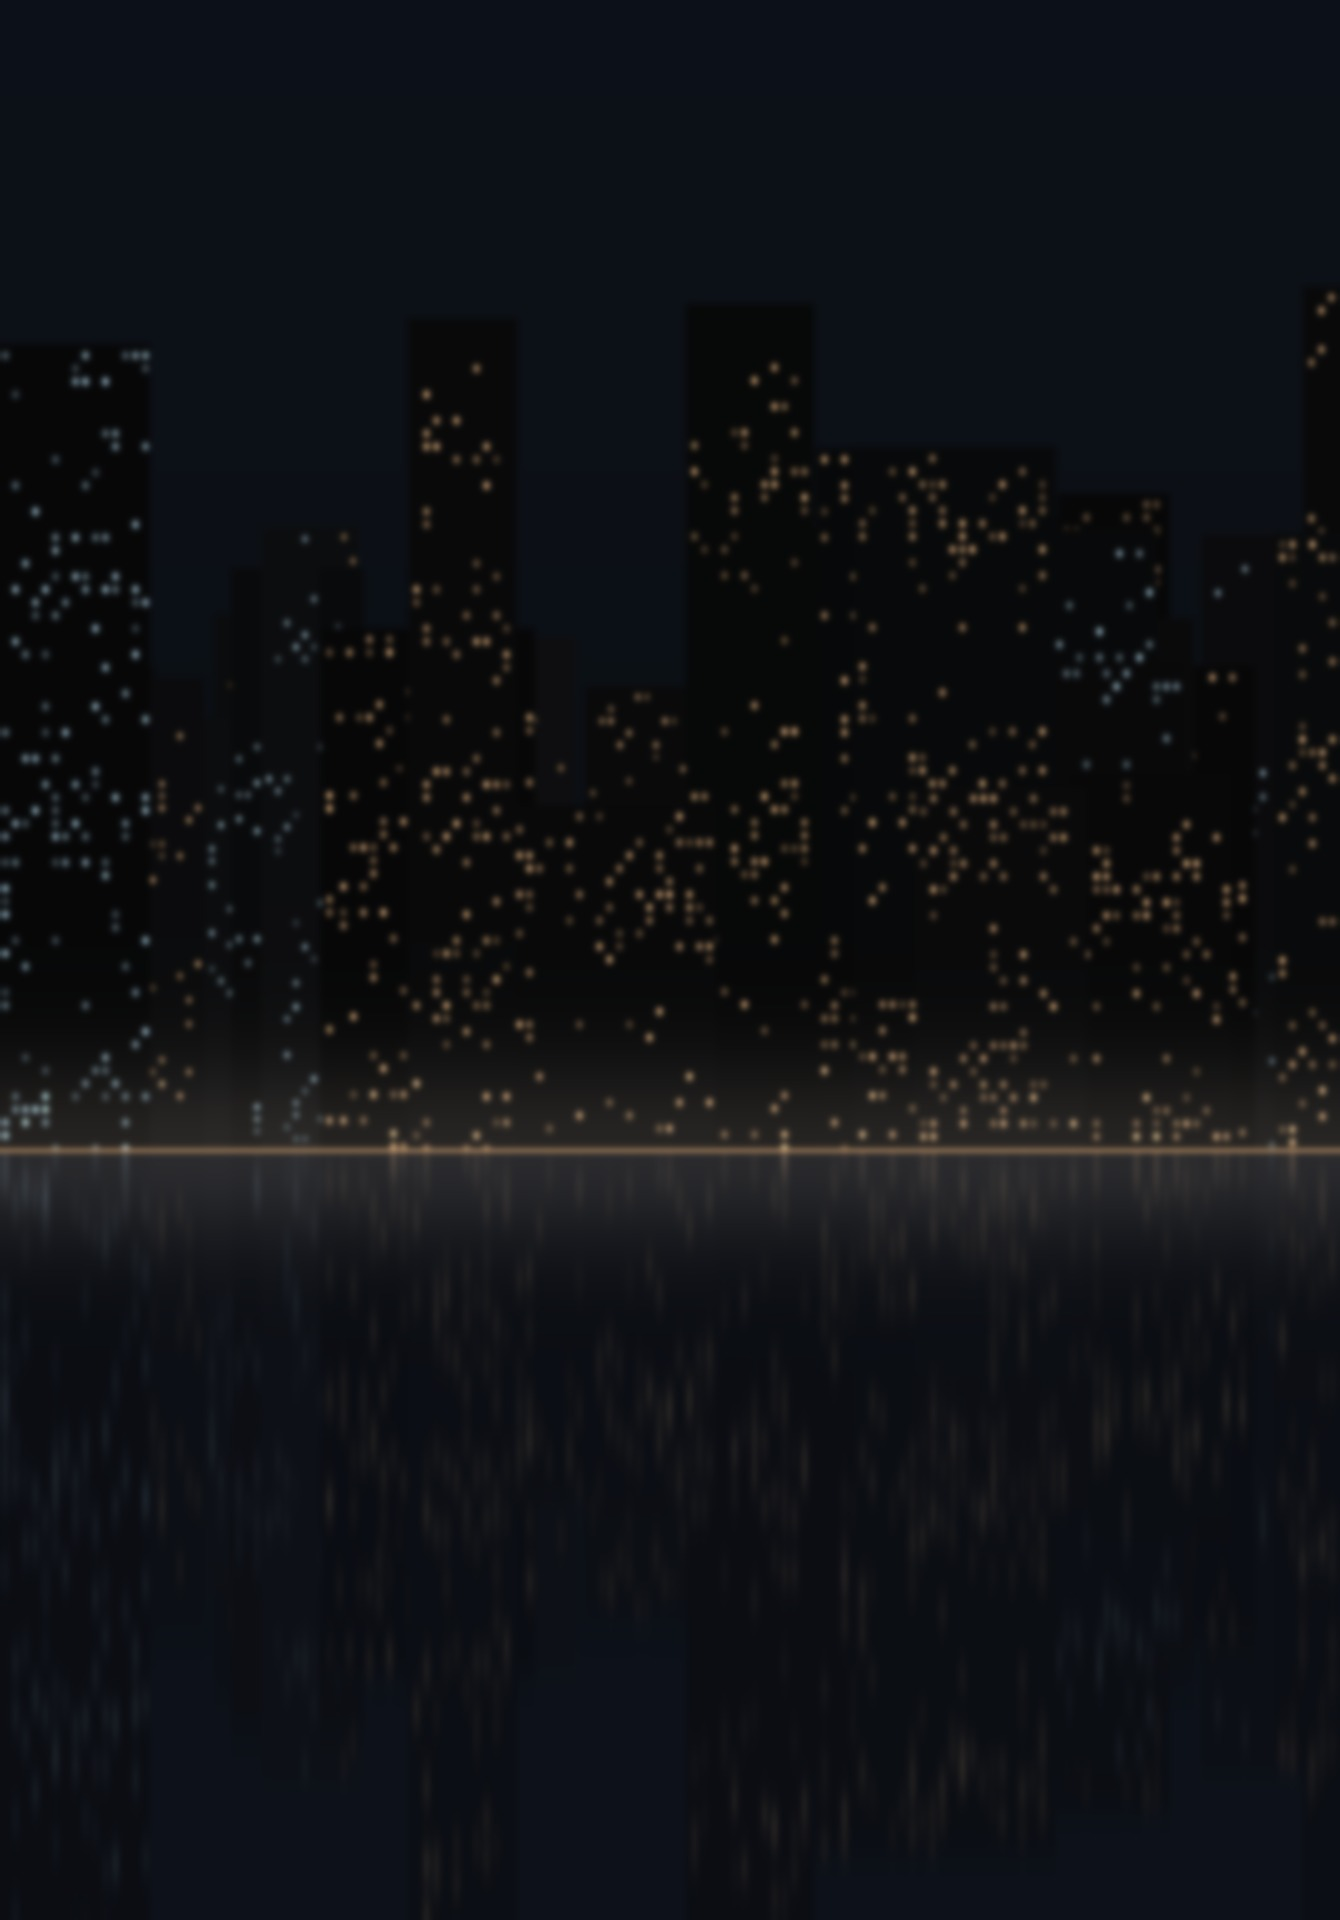
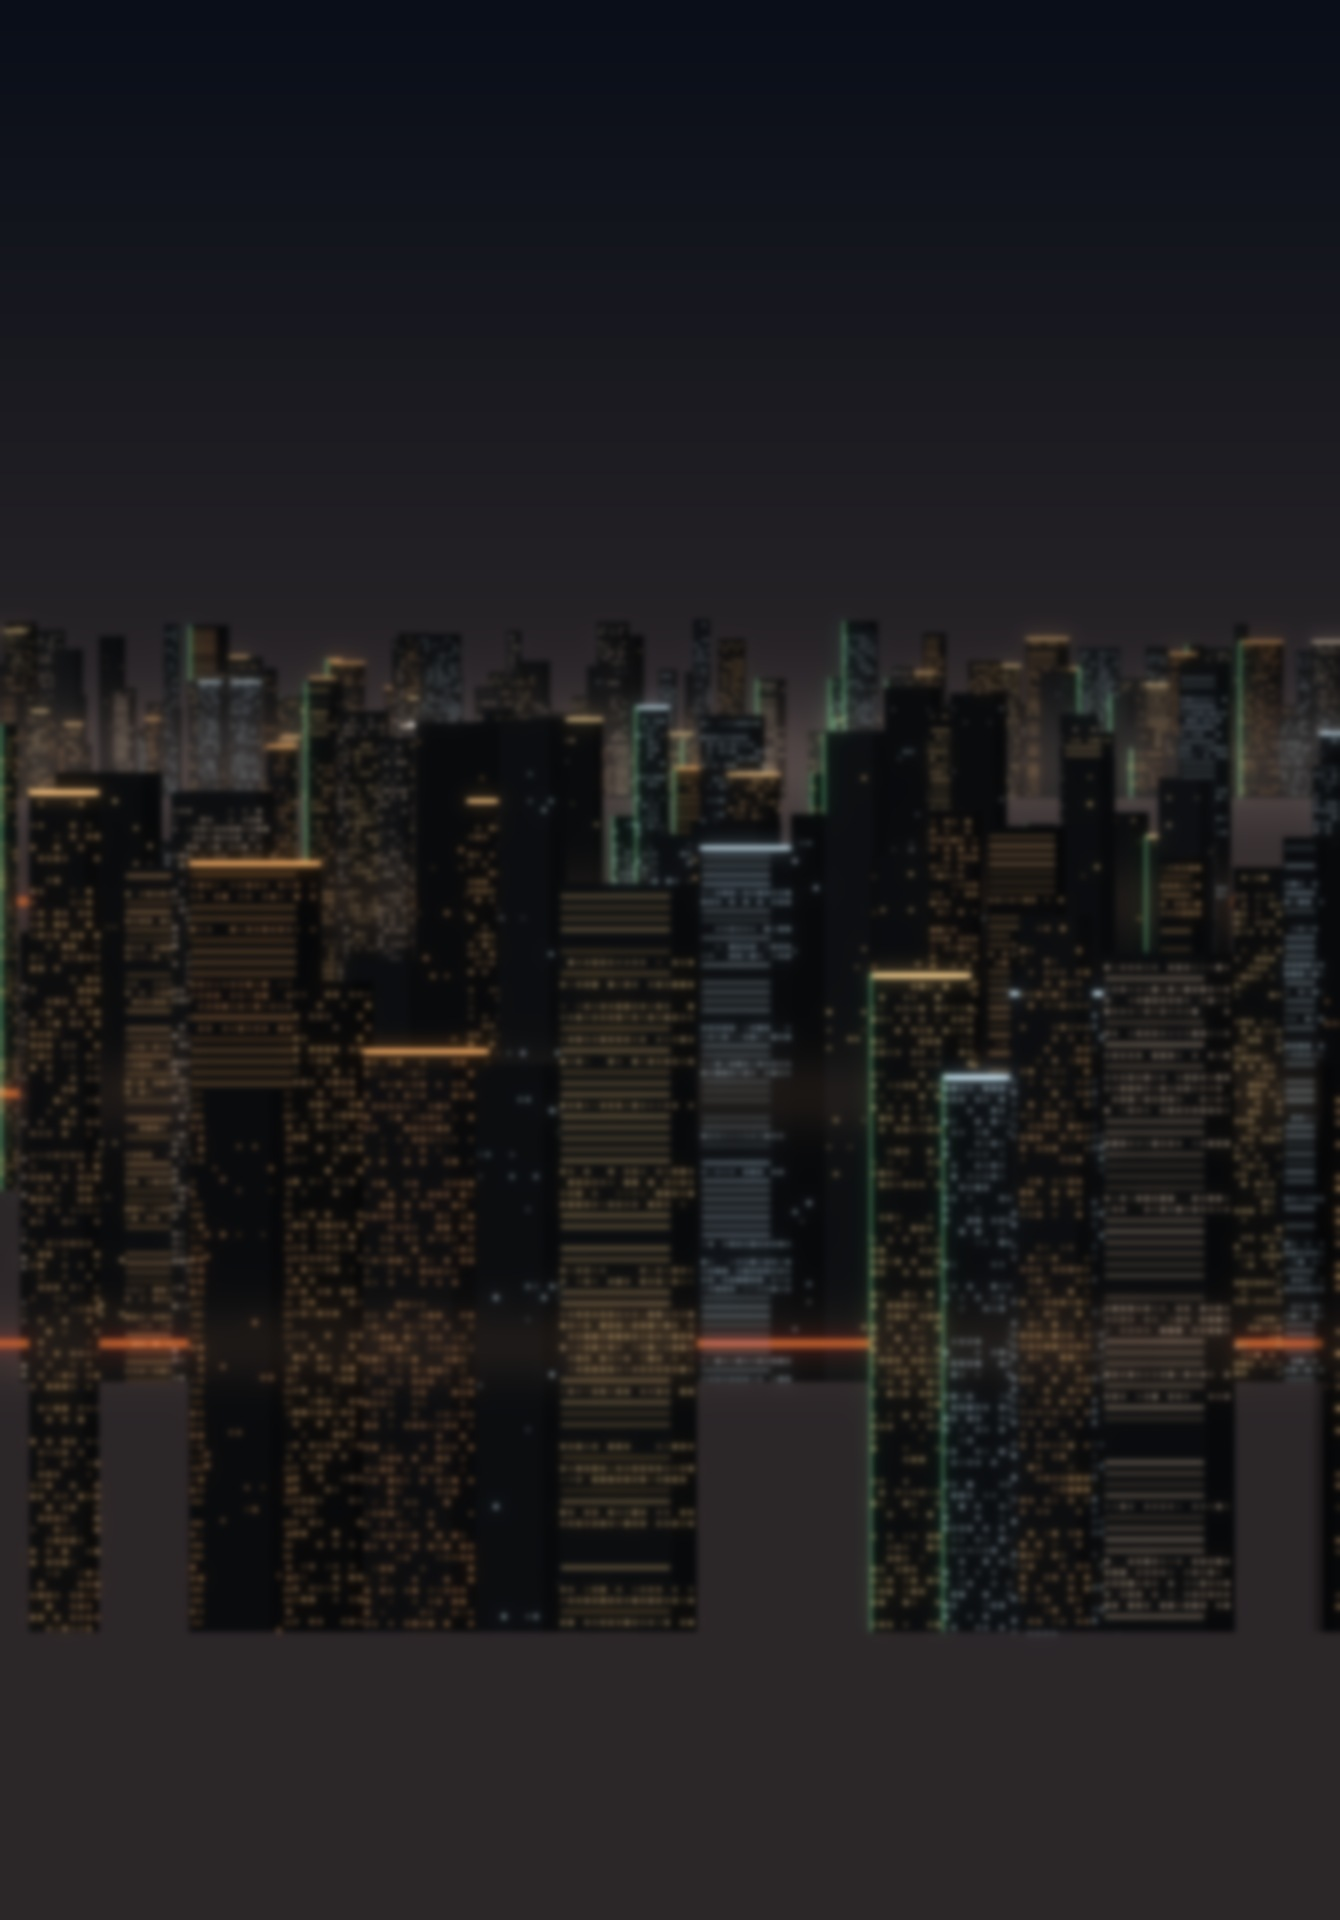
S1 final hook: rebuild Alice window view as a layered high-floor night city (no empty water), traffic/beacons on generated streets
Claude-Session: https://claude.ai/code/session_01GXcKc2bonZqTw7BuWx5hWf

diff --git a/nvidia-blender/remotion/src/s1/S1Final.jsx b/nvidia-blender/remotion/src/s1/S1Final.jsx
@@ -16,6 +16,7 @@ import { V } from '../alicev4/brand';
 import { CamRig, projector } from '../three/kit';
 import WORLD from '../alice/world.json';
 import VO from './s1f_vo.json';
+import CITY from './s1f_city.json';
 
 const ease = (x) => { x = clamp(x); return x * x * (3 - 2 * x); };
 const eio = (x) => Easing.inOut(Easing.cubic)(clamp(x));
@@ -120,19 +121,17 @@ const Shot1 = ({ f }) => {
 };
 
 // ---------------------------------------------------------------- Shot 2 pieces
-const CityLife = ({ f, horizon }) => {
-  const pts = useMemo(() => [...Array(90)].map((_, k) => ({ x: random(`cx${k}`) * 1340, y: 520 + random(`cy${k}`) * (horizon - 540), s: 2 + random(`cs${k}`) * 3, p: random(`cp${k}`) * 6, w: random(`cw${k}`) < 0.7 })), [horizon]);
-  const cars = useMemo(() => [...Array(16)].map((_, k) => ({ o: random(`co${k}`) * 1340, v: 4 + random(`cv${k}`) * 6, d: k % 2 ? 1 : -1, y: horizon - 6 + (k % 3) * 3 })), [horizon]);
+const CityLife = ({ f }) => {
+  // animation sits exactly on the generated city (scripts/s1_city.py -> s1f_city.json)
+  const tw = useMemo(() => CITY.twinkle.filter((_, k) => k % 2 === 0).map((b, k) => ({ x: b[0] + random(`tx${k}`) * b[2], y: b[1] + random(`ty${k}`) * Math.min(b[3], 500), p: random(`tp${k}`) * 6, warm: random(`tw${k}`) < 0.7 })), []);
+  const cars = useMemo(() => CITY.streets.filter((st) => st[1] < 3).flatMap(([y, li]) => [...Array(7)].map((_, k) => ({ o: random(`co${y}${k}`) * 1340, v: (1.5 + li * 1.6) * (0.7 + random(`cv${y}${k}`) * 0.6), d: k % 2 ? 1 : -1, y: y - 2 + (k % 2) * 3, s: 0.6 + li * 0.25 }))), []);
   return (
     <>
-      {pts.map((s, k) => <div key={k} style={{ position: 'absolute', left: s.x, top: s.y, width: s.s, height: s.s, borderRadius: 9, background: s.w ? '#ffd9a0' : '#cfe6ff',
-        opacity: 0.15 + 0.6 * Math.max(0, Math.sin(f / 6 + s.p)), mixBlendMode: 'screen', boxShadow: `0 0 8px ${s.w ? '#ffc070' : '#9cc8ff'}` }} />)}
-      {cars.map((c, k) => { const x = ((c.o + c.d * f * c.v) % 1340 + 1340) % 1340; return <div key={`c${k}`} style={{ position: 'absolute', left: x, top: c.y, width: 16, height: 3, borderRadius: 3,
-        background: c.d > 0 ? '#fff3dc' : '#ff5a4a', boxShadow: `0 0 8px ${c.d > 0 ? '#ffe2a8' : '#ff3b30'}`, opacity: 0.85 }} />; })}
-      {[180, 460, 900, 1180].map((x, k) => <div key={`a${k}`} style={{ position: 'absolute', left: x, top: 560 + k * 37, width: 5, height: 5, borderRadius: 5, background: '#ff3b30', boxShadow: '0 0 10px #ff3b30', opacity: (Math.floor((f + k * 9) / 12) % 2) ? 0.9 : 0.15 }} />)}
-      {/* water shimmer */}
-      {[...Array(26)].map((_, k) => <div key={`w${k}`} style={{ position: 'absolute', left: random(`wx${k}`) * 1300, top: horizon + 20 + random(`wy${k}`) * 520, width: 40 + random(`ww${k}`) * 90, height: 2,
-        background: 'rgba(255,215,160,.55)', opacity: 0.1 + 0.4 * Math.max(0, Math.sin(f / 5 + k)), filter: 'blur(1px)', transform: `translateX(${Math.sin(f / 9 + k) * 10}px)` }} />)}
+      {tw.map((s, k) => { const o = 0.5 + 0.5 * Math.sin(f / 7 + s.p); return o > 0.75 ? <div key={k} style={{ position: 'absolute', left: s.x, top: s.y, width: 4, height: 3, background: s.warm ? '#ffd6a0' : '#d4e8ff',
+        opacity: (o - 0.75) * 3, mixBlendMode: 'screen', boxShadow: `0 0 6px ${s.warm ? '#ffc070' : '#9cc8ff'}`, filter: 'blur(1px)' }} /> : null; })}
+      {cars.map((c, k) => { const x = ((c.o + c.d * f * c.v) % 1340 + 1340) % 1340; return <div key={`c${k}`} style={{ position: 'absolute', left: x, top: c.y, width: 14 * c.s, height: 3 * c.s, borderRadius: 3,
+        background: c.d > 0 ? '#fff1d6' : '#ff5a45', boxShadow: `0 0 ${8 * c.s}px ${c.d > 0 ? '#ffe0a0' : '#ff3b30'}`, opacity: 0.9, filter: 'blur(0.8px)' }} />; })}
+      {CITY.beacons.map(([x, y], k) => <div key={`b${k}`} style={{ position: 'absolute', left: x - 3, top: y - 3, width: 6, height: 6, borderRadius: 6, background: '#ff3b30', boxShadow: '0 0 12px #ff3b30', opacity: (Math.floor((f + k * 11) / 14) % 2) ? 0.95 : 0.1 }} />)}
     </>
   );
 };
@@ -148,8 +147,10 @@ const Shot2 = ({ f, horizon }) => {
     <AbsoluteFill style={{ overflow: 'hidden', background: '#07090c' }}>
       <div style={{ ...layer(0.25), left: -130, width: 1340 }}>
         <Img src={staticFile('s1f/a/skyline.jpg')} style={{ position: 'absolute', left: 0, top: 0, width: 1340, height: H }} />
-        <CityLife f={f} horizon={horizon} />
+        <CityLife f={f} />
       </div>
+      {/* near towers on their own plane: more parallax than the far city */}
+      <div style={{ ...layer(0.42), left: -130, width: 1340 }}><Img src={staticFile('s1f/a/skyline_near.png')} style={{ position: 'absolute', left: 0, top: 0, width: 1340, height: H }} /></div>
       {/* window reflection: moves against the track (different optical depth) + slow glass sweep */}
       <div style={{ ...layer(-0.35), opacity: 0.16, mixBlendMode: 'screen' }}><Img src={staticFile('s1f/a/reflection.png')} style={{ width: W, height: H }} /></div>
       <div style={{ position: 'absolute', left: lerp(-500, 1300, clamp(f / 60)), top: -300, width: 240, height: 2600, transform: 'rotate(16deg)', background: 'linear-gradient(90deg, transparent, rgba(255,255,255,.08), transparent)', mixBlendMode: 'screen' }} />
@@ -174,7 +175,7 @@ const Shot2 = ({ f, horizon }) => {
         <div style={{ position: 'absolute', inset: 0, WebkitMaskImage: `url(${ch})`, maskImage: `url(${ch})`, WebkitMaskSize: '100% 100%', maskSize: '100% 100%', mixBlendMode: 'soft-light',
           background: `linear-gradient(105deg, transparent ${lerp(-10, 40, k)}%, rgba(255,220,170,.55) ${lerp(5, 55, k)}%, transparent ${lerp(25, 75, k)}%)` }} />
       </div>
-      <div style={{ position: 'absolute', inset: 0, background: 'linear-gradient(180deg, transparent 55%, rgba(4,6,9,.72) 82%)' }} />
+      <div style={{ position: 'absolute', inset: 0, background: 'linear-gradient(180deg, transparent 58%, rgba(4,6,9,.55) 84%)' }} />
     </AbsoluteFill>
   );
 };

diff --git a/nvidia-blender/scripts/s1_city.py b/nvidia-blender/scripts/s1_city.py
@@ -1,0 +1,99 @@
+"""Neutral night-city view from a high floor (S1 final, Shot 2 window). Procedural, landmark-free.
+
+Painter's algorithm, far -> near. Each tower has real floor bands and window columns (not random dots),
+per-building tint (warm offices / cool LED / dark residential), occasional lit crowns and edge strips,
+atmospheric haze toward the horizon, lit streets between blocks, and near rooftops that fill the lower window
+(we look DOWN onto the city, so there is no empty water). Depth-of-field blur grows toward the camera.
+
+Returns far plate (BGR uint8), near layer (BGRA uint8) and metadata (streets / beacons / twinkle boxes) so
+Remotion can animate traffic, aircraft beacons and window flicker exactly on the generated geometry.
+"""
+import cv2
+import numpy as np
+
+TINTS = [np.array(c, np.float32) for c in ((0.55, 0.80, 1.00), (0.62, 0.86, 1.00), (1.00, 0.95, 0.85), (0.80, 0.90, 1.00), (0.45, 0.70, 0.95))]  # BGR
+
+
+def tower(img, rng, x0, top, base, bw, depth, meta):
+    """Draw one tower; depth 0 (far) .. 1 (near). Returns nothing, draws into img (float BGR, 0..1)."""
+    h, w = img.shape[:2]
+    x1 = min(w, x0 + bw); x0c = max(0, x0)
+    if x1 <= x0c or base <= 0 or top >= h:
+        return
+    haze = 1 - depth
+    body = np.array([0.050, 0.042, 0.036]) * (0.6 + 0.8 * rng.random()) * (0.55 + 0.45 * depth) + np.array([0.06, 0.05, 0.045]) * haze * 0.6
+    t0, b0 = max(0, top), min(h, base)
+    img[t0:b0, x0c:x1] = body
+    # subtle side shading (one face slightly darker) for volume
+    side = int(bw * rng.uniform(0.18, 0.32))
+    img[t0:b0, max(0, x1 - side):x1] *= 0.72
+    floor_h = int(np.interp(depth, [0, 1], [5, 16])); win_w = int(np.interp(depth, [0, 1], [2, 7])); gap = int(np.interp(depth, [0, 1], [2, 6]))
+    kind = rng.random()
+    tint = TINTS[rng.integers(len(TINTS))]
+    lit_p = 0.10 if kind < 0.25 else (0.55 if kind < 0.75 else 0.85)       # residential / mixed / office
+    rows = np.arange(top + floor_h, base - 2, floor_h)
+    band = rng.random(len(rows)) < (0.35 if kind < 0.25 else 0.9)          # whole floors on/off (real buildings do this)
+    for r, on in zip(rows, band):
+        if not on or r < 0 or r >= h:
+            continue
+        if kind >= 0.75 and rng.random() < 0.6:                            # office: continuous lit ribbon window
+            yy = slice(r, min(h, r + max(1, floor_h // 2)))
+            img[yy, x0c + 2:max(x0c + 2, x1 - side - 2)] = tint * rng.uniform(0.25, 0.55) * (0.9 - 0.45 * depth)
+            continue
+        for xx in range(x0 + 2, x1 - 2, win_w + gap):
+            if 0 <= xx < w and rng.random() < lit_p:
+                img[r:min(h, r + max(1, floor_h // 2)), xx:min(w, xx + win_w)] = tint * rng.uniform(0.25, 0.95) * (0.9 - 0.3 * depth)
+    if rng.random() < 0.25:                                                # lit crown band (generic)
+        img[max(0, top):max(0, top) + max(2, floor_h // 2), x0c:x1] = tint * 0.9
+    if rng.random() < 0.15:                                                # vertical LED edge strip
+        img[t0:b0, max(0, x0):max(0, x0) + 2] = np.array([0.55, 0.75, 0.45]) * 0.8
+    if depth > 0.55 and rng.random() < 0.5:                                # roof beacon (animated in Remotion)
+        meta["beacons"].append([int(x0 + bw / 2), int(top - 3)])
+    if lit_p > 0.5 and len(meta["twinkle"]) < 160:
+        meta["twinkle"].append([int(x0c), int(t0), int(x1 - x0c), int(b0 - t0)])
+
+
+def make_city(w, h, seed=11):
+    rng = np.random.default_rng(seed)
+    meta = {"streets": [], "beacons": [], "twinkle": []}
+    y = np.linspace(0, 1, h)[:, None]
+    hz = 0.40                                                              # horizon (fraction of height)
+    sky = np.zeros((h, w, 3), np.float32)
+    top_c, low_c = np.array([0.095, 0.055, 0.035]), np.array([0.16, 0.15, 0.17])   # deep blue -> city-glow
+    sky[:] = (top_c * (1 - np.clip(y / hz, 0, 1)) + low_c * np.clip(y / hz, 0, 1))[:, :, None].transpose(0, 2, 1)
+    far = sky.copy()
+    H0 = int(h * hz)
+    # far skyline band (dense, small, hazy)
+    for _ in range(140):
+        bw = int(rng.uniform(14, 46)); x0 = int(rng.uniform(-20, w)); bh = int(rng.uniform(20, 150))
+        tower(far, rng, x0, H0 - bh, H0 + 30, bw, 0.05, meta)
+    haze = np.exp(-((np.arange(h) - H0) / 70.0) ** 2)[:, None, None] * np.array([0.11, 0.12, 0.14])
+    far += haze
+    # mid layers: bases step DOWN the frame (we look down), towers get bigger
+    for li, (n, base_y, hmin, hmax, wmin, wmax, dep) in enumerate((
+            (40, 0.47, 60, 240, 26, 70, 0.25), (24, 0.57, 120, 400, 40, 110, 0.4), (14, 0.70, 200, 560, 70, 160, 0.55))):
+        by = int(h * base_y)
+        far[by - 5:by + 4] = np.maximum(far[by - 5:by + 4], np.array([0.25, 0.55, 0.95]) * 0.55)   # sodium street glow
+        meta["streets"].append([by, li])
+        xs = np.sort(rng.uniform(-60, w, n))
+        for x0 in xs:
+            bw = int(rng.uniform(wmin, wmax)); bh = int(rng.uniform(hmin, hmax))
+            tower(far, rng, int(x0), by - bh, by + int(h * 0.15), bw, dep, meta)
+        far[:] = far + np.exp(-((np.arange(h) - by) / 40.0) ** 2)[:, None, None] * np.array([0.035, 0.05, 0.07])
+    bright = np.clip(far - 0.35, 0, 1)
+    far = far + cv2.GaussianBlur(bright, (0, 0), 9) * 1.4                  # window bloom / light spill
+    far = cv2.GaussianBlur(far, (0, 0), 3.0)                               # DOF: city far behind her
+    # near layer: big towers rising from below the frame edge (separate plane for parallax), more blur
+    near = np.zeros((h, w, 3), np.float32); na = np.zeros((h, w), np.float32)
+    by = int(h * 0.86)
+    meta["streets"].append([by, 3])
+    for x0 in np.sort(rng.uniform(-100, w, 8)):
+        bw = int(rng.uniform(150, 300)); top = int(h * rng.uniform(0.62, 0.80))
+        tmp = np.zeros_like(near); tower(tmp, rng, int(x0), top, h, bw, 0.9, meta); tmp *= 0.62
+        m = (tmp.sum(2) > 0).astype(np.float32)
+        near = near * (1 - m[..., None]) + tmp; na = np.maximum(na, m)
+    near = near * 0.75 + cv2.GaussianBlur(np.clip(near - 0.3, 0, 1), (0, 0), 10)
+    near = cv2.GaussianBlur(near, (0, 0), 6.0); na = cv2.GaussianBlur(na, (0, 0), 6.0)
+    meta["horizon"] = H0
+    to8 = lambda a: (np.clip(a, 0, 1) * 255).astype(np.uint8)
+    return to8(far), np.dstack([to8(near), to8(na)]), meta

diff --git a/nvidia-blender/scripts/s1_final_layers.py b/nvidia-blender/scripts/s1_final_layers.py
@@ -15,6 +15,8 @@ import subprocess
 import shutil
 from pathlib import Path
 
+import sys as _sys
+_sys.path.insert(0, str(__import__("pathlib").Path(__file__).resolve().parent))
 import cv2
 import numpy as np
 from rembg import new_session, remove
@@ -140,10 +142,13 @@ def shot2():
     glow = cv2.GaussianBlur(np.clip((lum - 120) / 120, 0, 1) * lamp, (0, 0), 40)
     cv2.imwrite(str(d / "lamp_glow.png"), (glow / max(glow.max(), 1e-6) * 255).astype(np.uint8))
     # 6 neutral skyline (replaces the recognisable Hong Kong view), wider for parallax
-    sky, horizon = city(w + 260, h)
-    sky = cv2.GaussianBlur(sky, (0, 0), 3.2)           # shallow depth of field: city is far behind her
-    cv2.imwrite(str(d / "skyline.jpg"), sky, [cv2.IMWRITE_JPEG_QUALITY, 92])
-    (d / "horizon.txt").write_text(str(horizon))
+    from s1_city import make_city
+    import json
+    sky, near, meta = make_city(w + 260, h)
+    cv2.imwrite(str(d / "skyline.jpg"), sky, [cv2.IMWRITE_JPEG_QUALITY, 93])
+    cv2.imwrite(str(d / "skyline_near.png"), near)
+    json.dump(meta, open(ROOT / "remotion/src/s1/s1f_city.json", "w"))
+    horizon = meta["horizon"]
     # 7 window reflection: faint mirrored interior (lamp) + mirrored character head, for the glass layer
     refl = cv2.flip(rec, 1).astype(np.float32) * 0.5
     head = np.zeros((h, w), np.uint8); head[:X(470)] = a[:X(470)]
